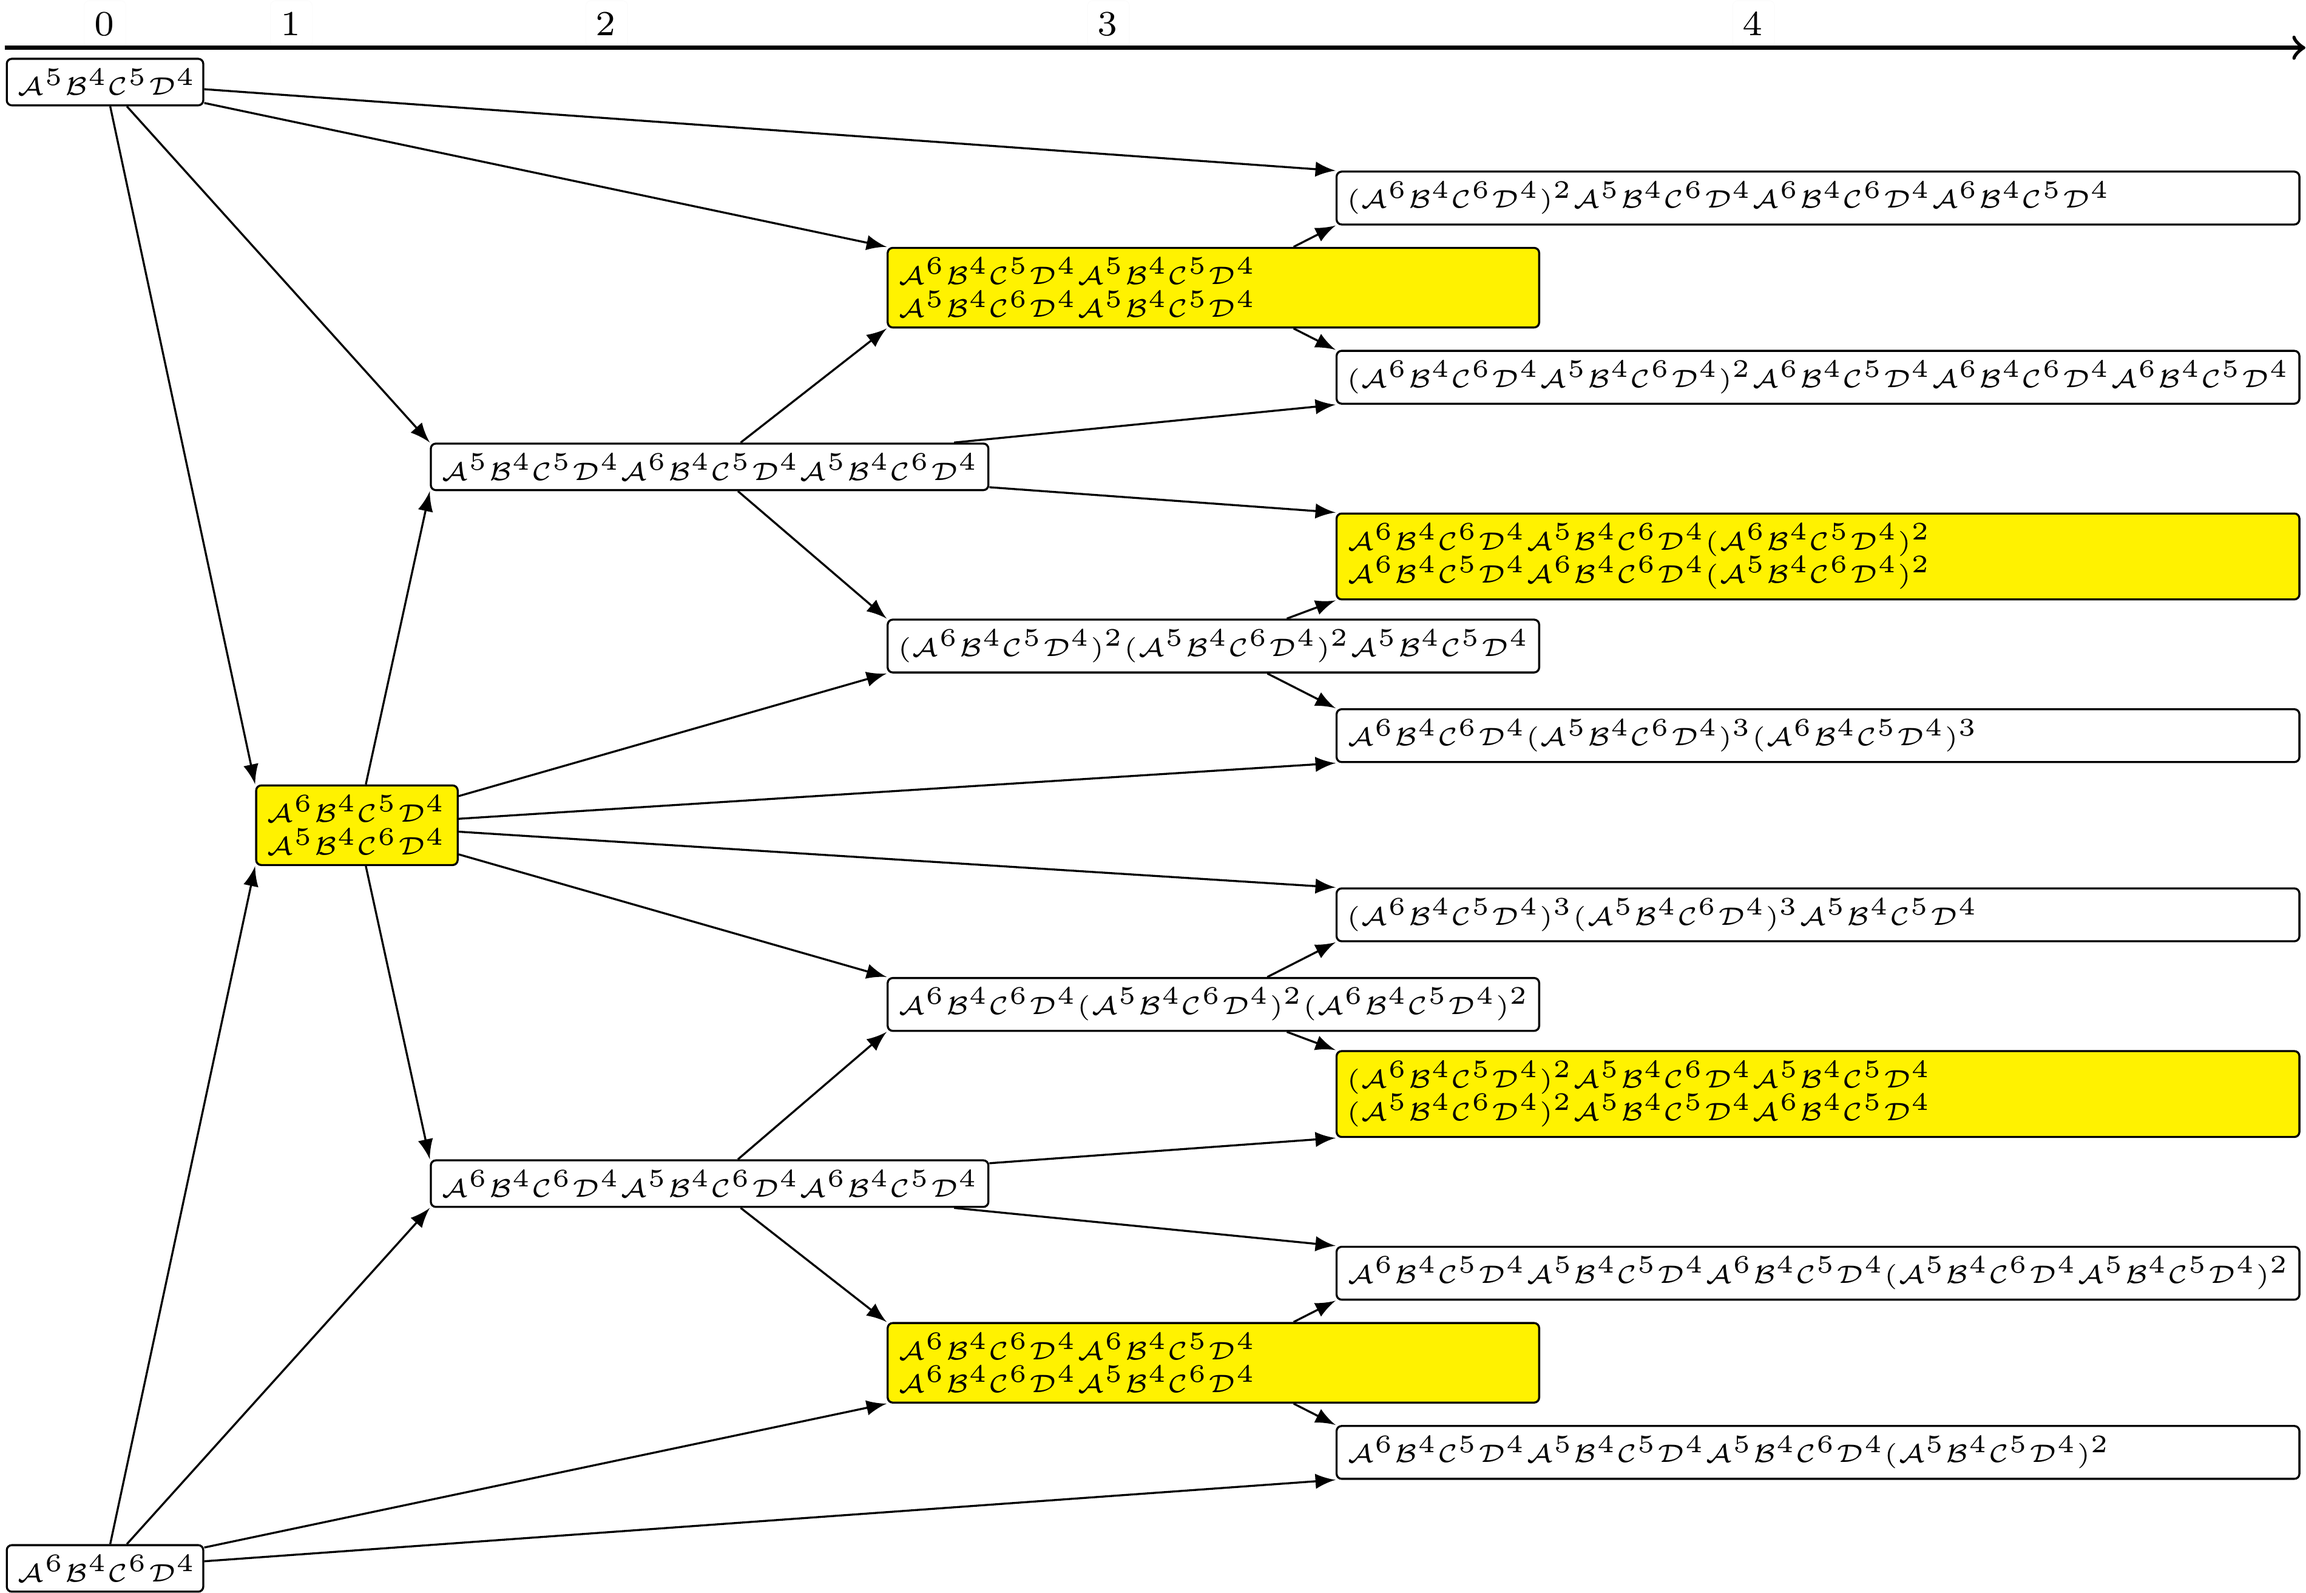
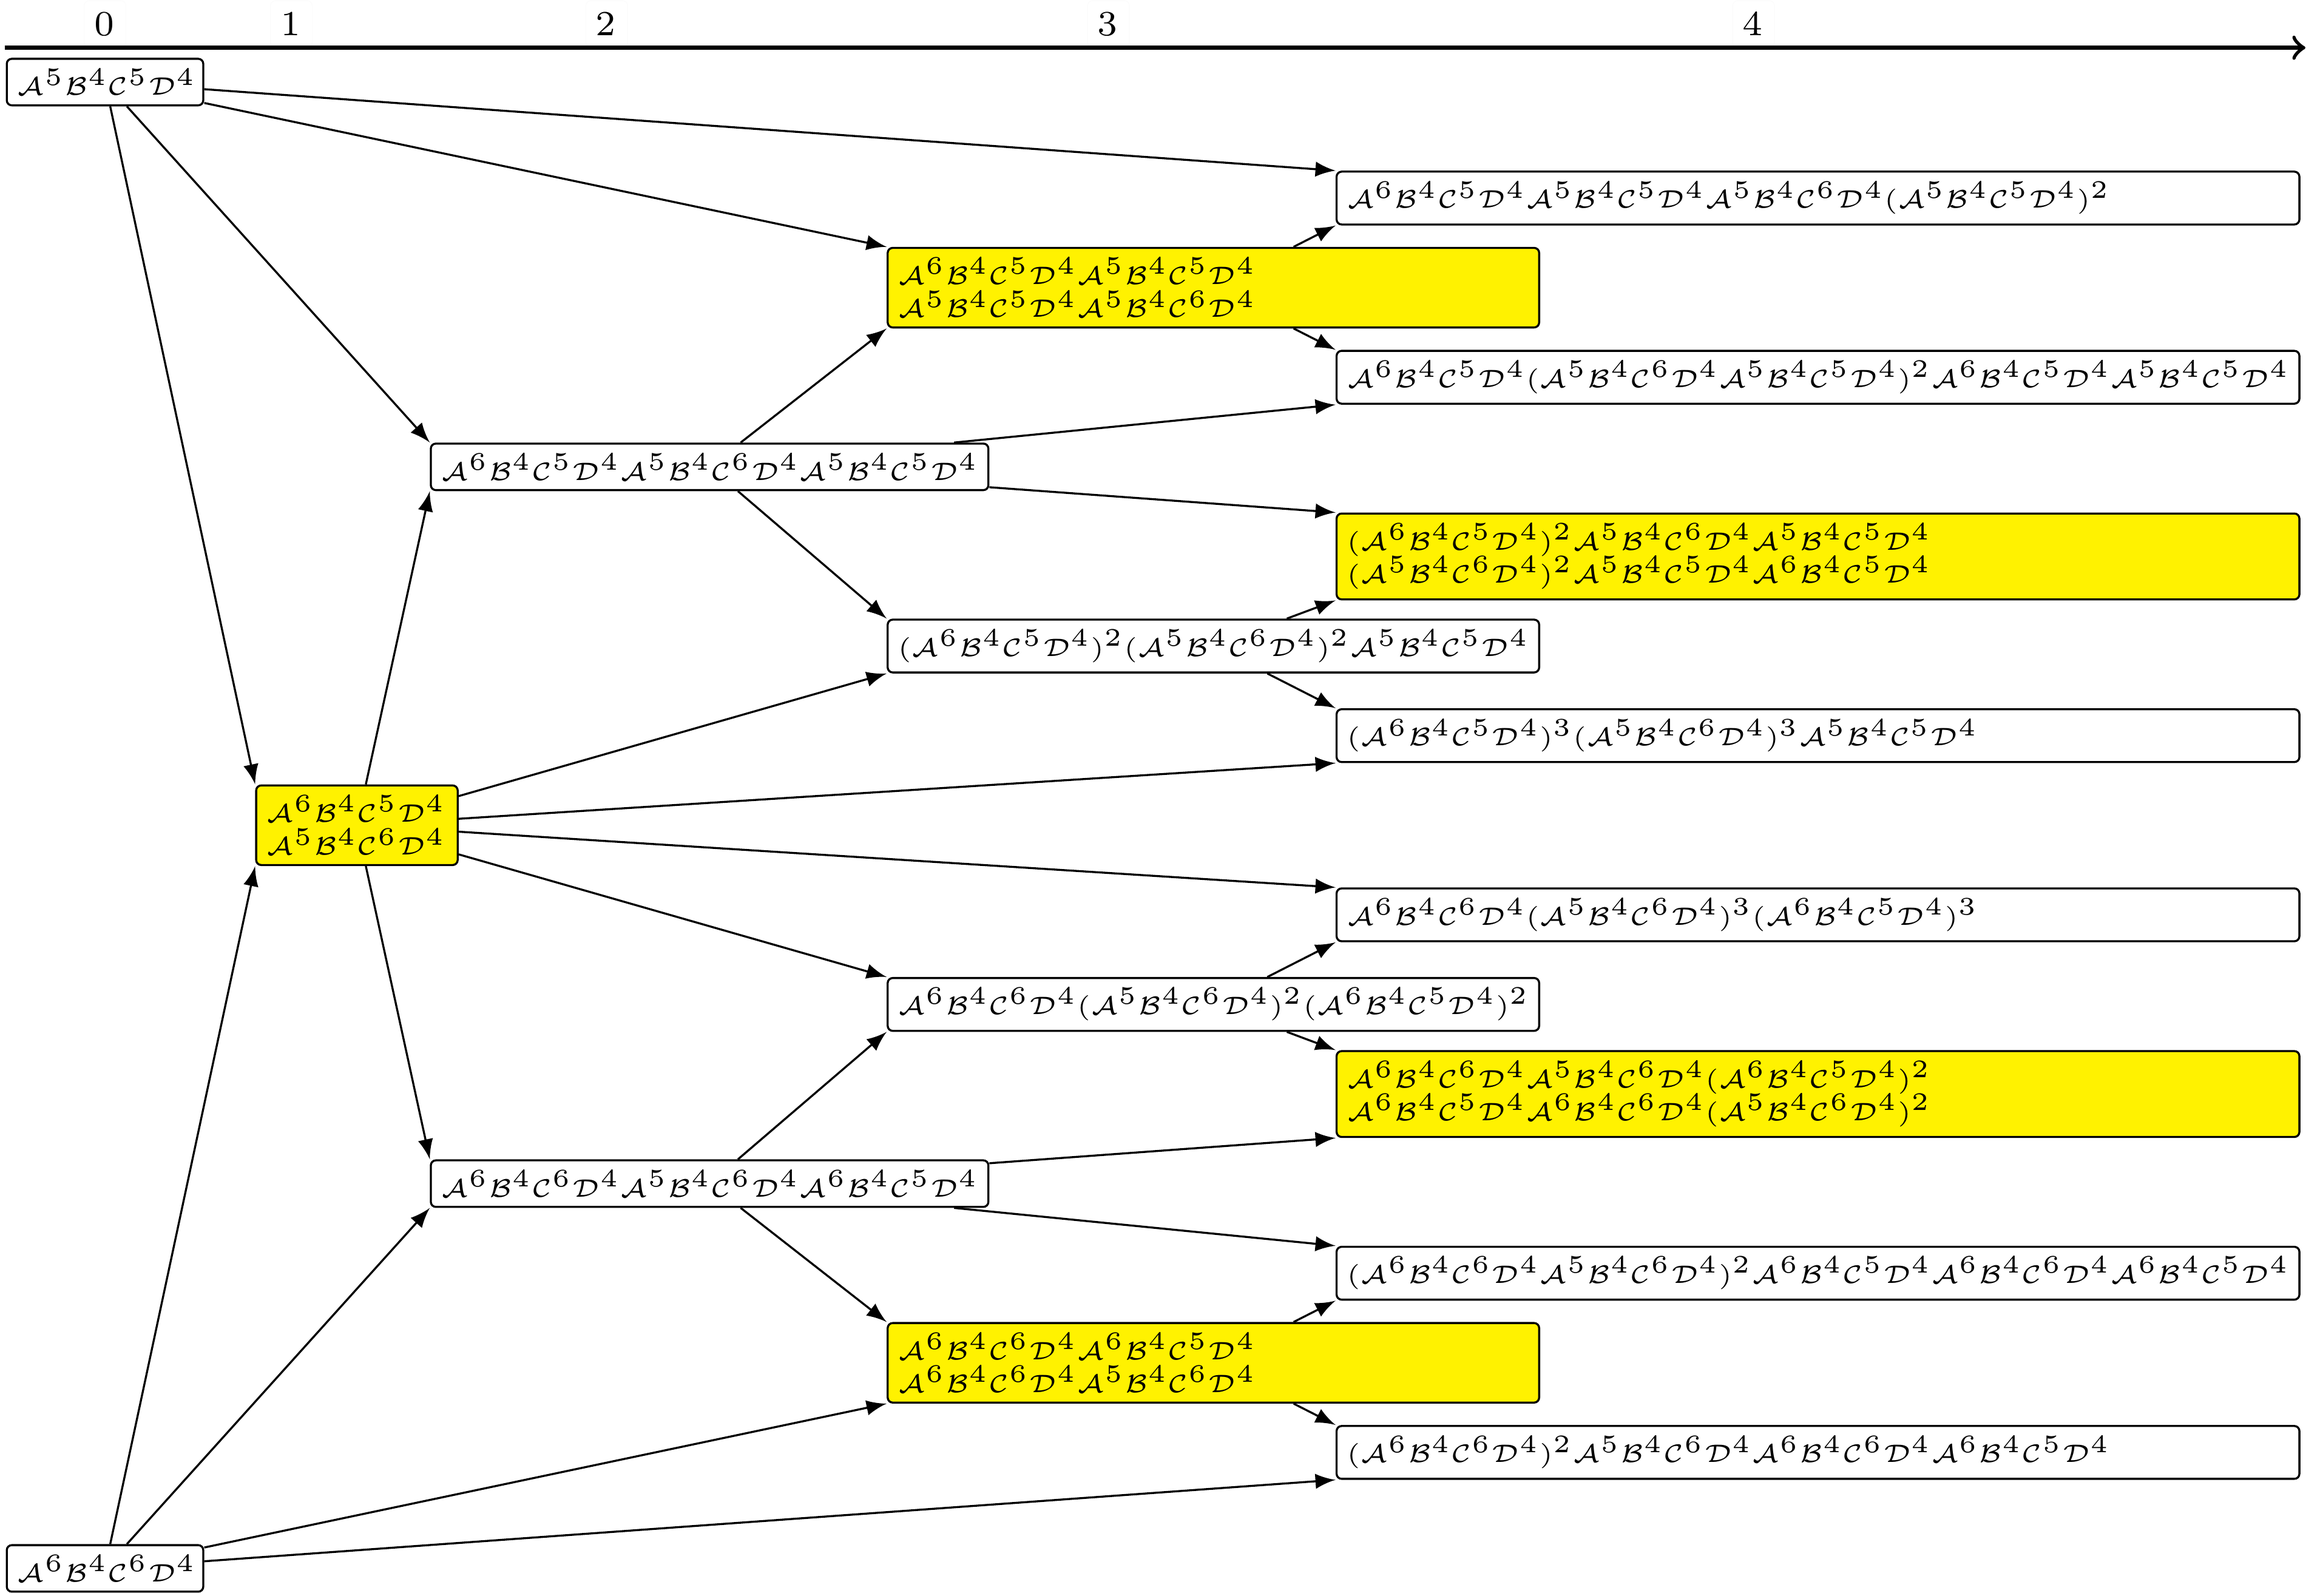
reorder level 4 of full farey tree

diff --git a/Report/Figures/FareyTrees/Minrep_Adding1_Full/adding.tex b/Report/Figures/FareyTrees/Minrep_Adding1_Full/adding.tex
@@ -68,25 +68,25 @@
 	node[name=s] at (0,-\TreeDiameter-\NodeHeight) {\tiny$\A^6\B^4\C^6\D^4$};
 
 	\path[setwidth=3.6em] node[name=sr,fill=yellow] at (\LevelDistance,-.5\TreeDiameter) {\tiny$\A^6\B^4\C^5\D^4$\\[-.8em]$\A^5\B^4\C^6\D^4$}
-	child{ node{\tiny$\A^5\B^4\C^5\D^4\A^6\B^4\C^5\D^4\A^5\B^4\C^6\D^4$}
-			child{ node[fill=yellow]{\tiny$\A^6\B^4\C^5\D^4\A^5\B^4\C^5\D^4$\\[-.8em]$\A^5\B^4\C^6\D^4\A^5\B^4\C^5\D^4$}
-					child{ node{\tiny$(\A^6\B^4\C^6\D^4)^2\A^5\B^4\C^6\D^4\A^6\B^4\C^6\D^4\A^6\B^4\C^5\D^4$} }
-					child{ node{\tiny$(\A^6\B^4\C^6\D^4\A^5\B^4\C^6\D^4)^2\A^6\B^4\C^5\D^4\A^6\B^4\C^6\D^4\A^6\B^4\C^5\D^4$} }
+	child{ node{\tiny$\A^6\B^4\C^5\D^4\A^5\B^4\C^6\D^4\A^5\B^4\C^5\D^4$}
+			child{ node[fill=yellow]{\tiny$\A^6\B^4\C^5\D^4\A^5\B^4\C^5\D^4$\\[-.8em]$\A^5\B^4\C^5\D^4\A^5\B^4\C^6\D^4$}
+					child{ node{\tiny$\A^6\B^4\C^5\D^4\A^5\B^4\C^5\D^4\A^5\B^4\C^6\D^4(\A^5\B^4\C^5\D^4)^2$} }
+					child{ node{\tiny$\A^6\B^4\C^5\D^4(\A^5\B^4\C^6\D^4\A^5\B^4\C^5\D^4)^2\A^6\B^4\C^5\D^4\A^5\B^4\C^5\D^4$} }
 				}
 			child{ node{\tiny$(\A^6\B^4\C^5\D^4)^2(\A^5\B^4\C^6\D^4)^2\A^5\B^4\C^5\D^4$}
-					child{ node[fill=yellow]{\tiny$\A^6\B^4\C^6\D^4\A^5\B^4\C^6\D^4(\A^6\B^4\C^5\D^4)^2$\\[-.8em]$\A^6\B^4\C^5\D^4\A^6\B^4\C^6\D^4(\A^5\B^4\C^6\D^4)^2$} }
-					child{ node{\tiny$\A^6\B^4\C^6\D^4(\A^5\B^4\C^6\D^4)^3(\A^6\B^4\C^5\D^4)^3$} }
+					child{ node[fill=yellow]{\tiny$(\A^6\B^4\C^5\D^4)^2\A^5\B^4\C^6\D^4\A^5\B^4\C^5\D^4$\\[-.8em]$(\A^5\B^4\C^6\D^4)^2\A^5\B^4\C^5\D^4\A^6\B^4\C^5\D^4$} }
+					child{ node{\tiny$(\A^6\B^4\C^5\D^4)^3(\A^5\B^4\C^6\D^4)^3\A^5\B^4\C^5\D^4$} }
 				}
 		}
 	%---------%
 	child{ node{\tiny$\A^6\B^4\C^6\D^4\A^5\B^4\C^6\D^4\A^6\B^4\C^5\D^4$}
 			child{ node{\tiny$\A^6\B^4\C^6\D^4(\A^5\B^4\C^6\D^4)^2(\A^6\B^4\C^5\D^4)^2$}
-					child{ node{\tiny$(\A^6\B^4\C^5\D^4)^3(\A^5\B^4\C^6\D^4)^3\A^5\B^4\C^5\D^4$} }
-					child{ node[fill=yellow]{\tiny$(\A^6\B^4\C^5\D^4)^2\A^5\B^4\C^6\D^4\A^5\B^4\C^5\D^4$\\[-.8em]$(\A^5\B^4\C^6\D^4)^2\A^5\B^4\C^5\D^4\A^6\B^4\C^5\D^4$} }
+					child{ node{\tiny$\A^6\B^4\C^6\D^4(\A^5\B^4\C^6\D^4)^3(\A^6\B^4\C^5\D^4)^3$} }
+					child{ node[fill=yellow]{\tiny$\A^6\B^4\C^6\D^4\A^5\B^4\C^6\D^4(\A^6\B^4\C^5\D^4)^2$\\[-.8em]$\A^6\B^4\C^5\D^4\A^6\B^4\C^6\D^4(\A^5\B^4\C^6\D^4)^2$} }
 				}
 			child{ node[fill=yellow]{\tiny$\A^6\B^4\C^6\D^4\A^6\B^4\C^5\D^4$\\[-.8em]$\A^6\B^4\C^6\D^4\A^5\B^4\C^6\D^4$}
-					child{ node{\tiny$\A^6\B^4\C^5\D^4\A^5\B^4\C^5\D^4\A^6\B^4\C^5\D^4(\A^5\B^4\C^6\D^4\A^5\B^4\C^5\D^4)^2$} }
-					child{ node{\tiny$\A^6\B^4\C^5\D^4\A^5\B^4\C^5\D^4\A^5\B^4\C^6\D^4(\A^5\B^4\C^5\D^4)^2$} }
+					child{ node{\tiny$(\A^6\B^4\C^6\D^4\A^5\B^4\C^6\D^4)^2\A^6\B^4\C^5\D^4\A^6\B^4\C^6\D^4\A^6\B^4\C^5\D^4$} }
+					child{ node{\tiny$(\A^6\B^4\C^6\D^4)^2\A^5\B^4\C^6\D^4\A^6\B^4\C^6\D^4\A^6\B^4\C^5\D^4$} }
 				}
 		};
 
